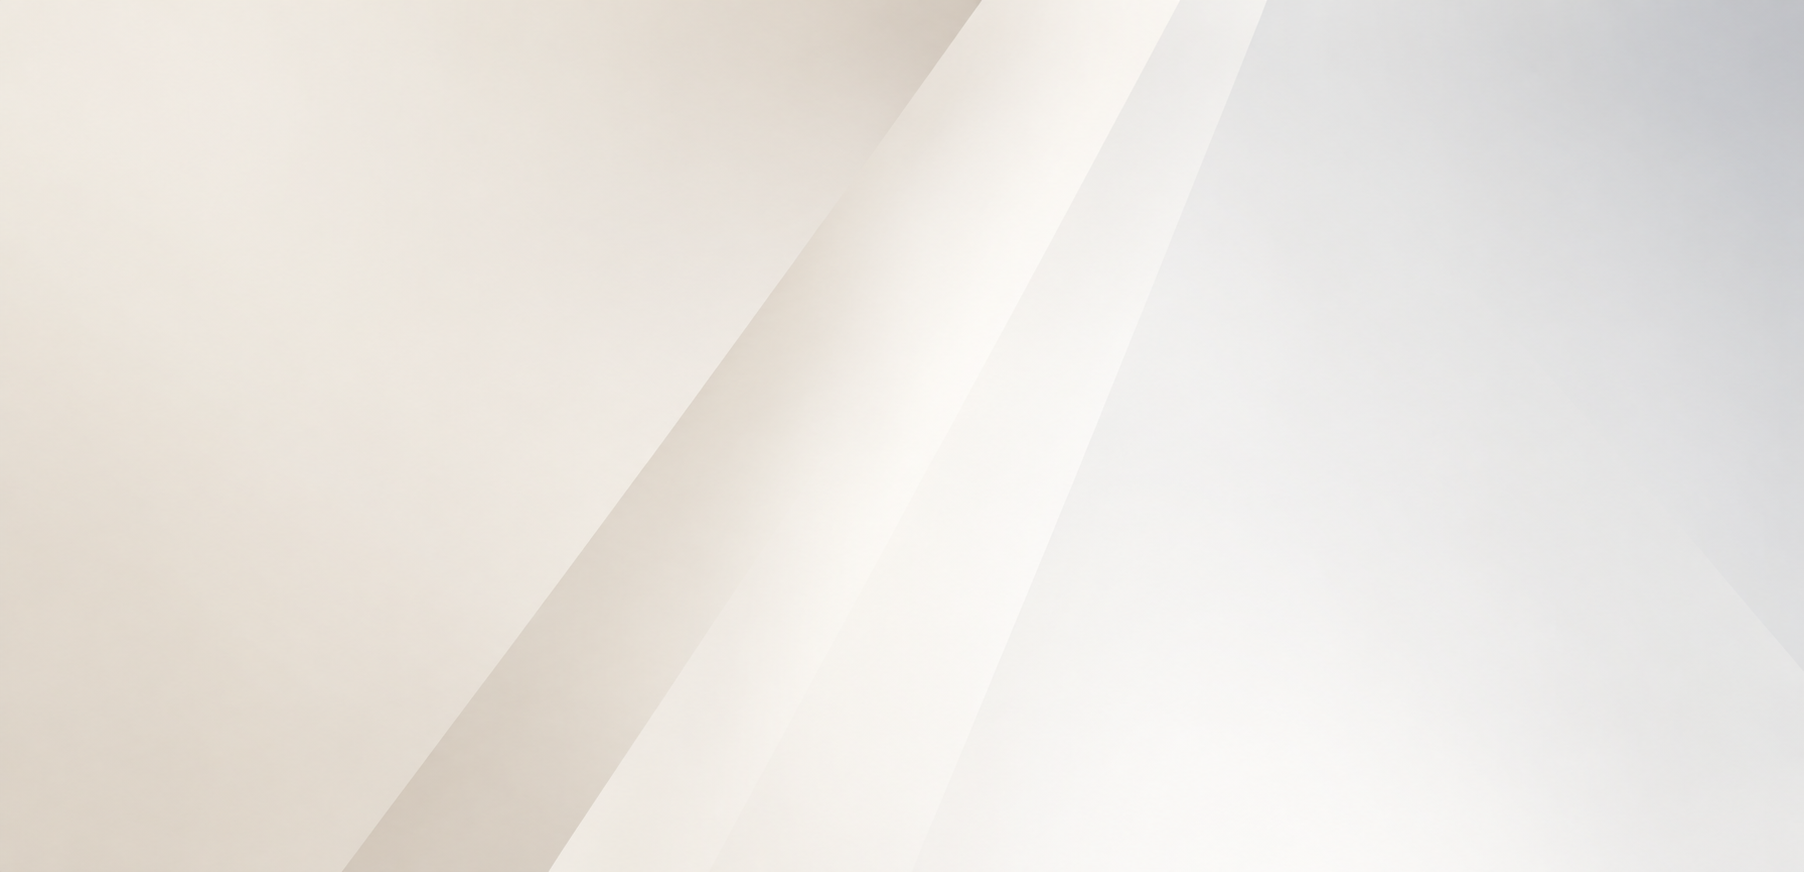
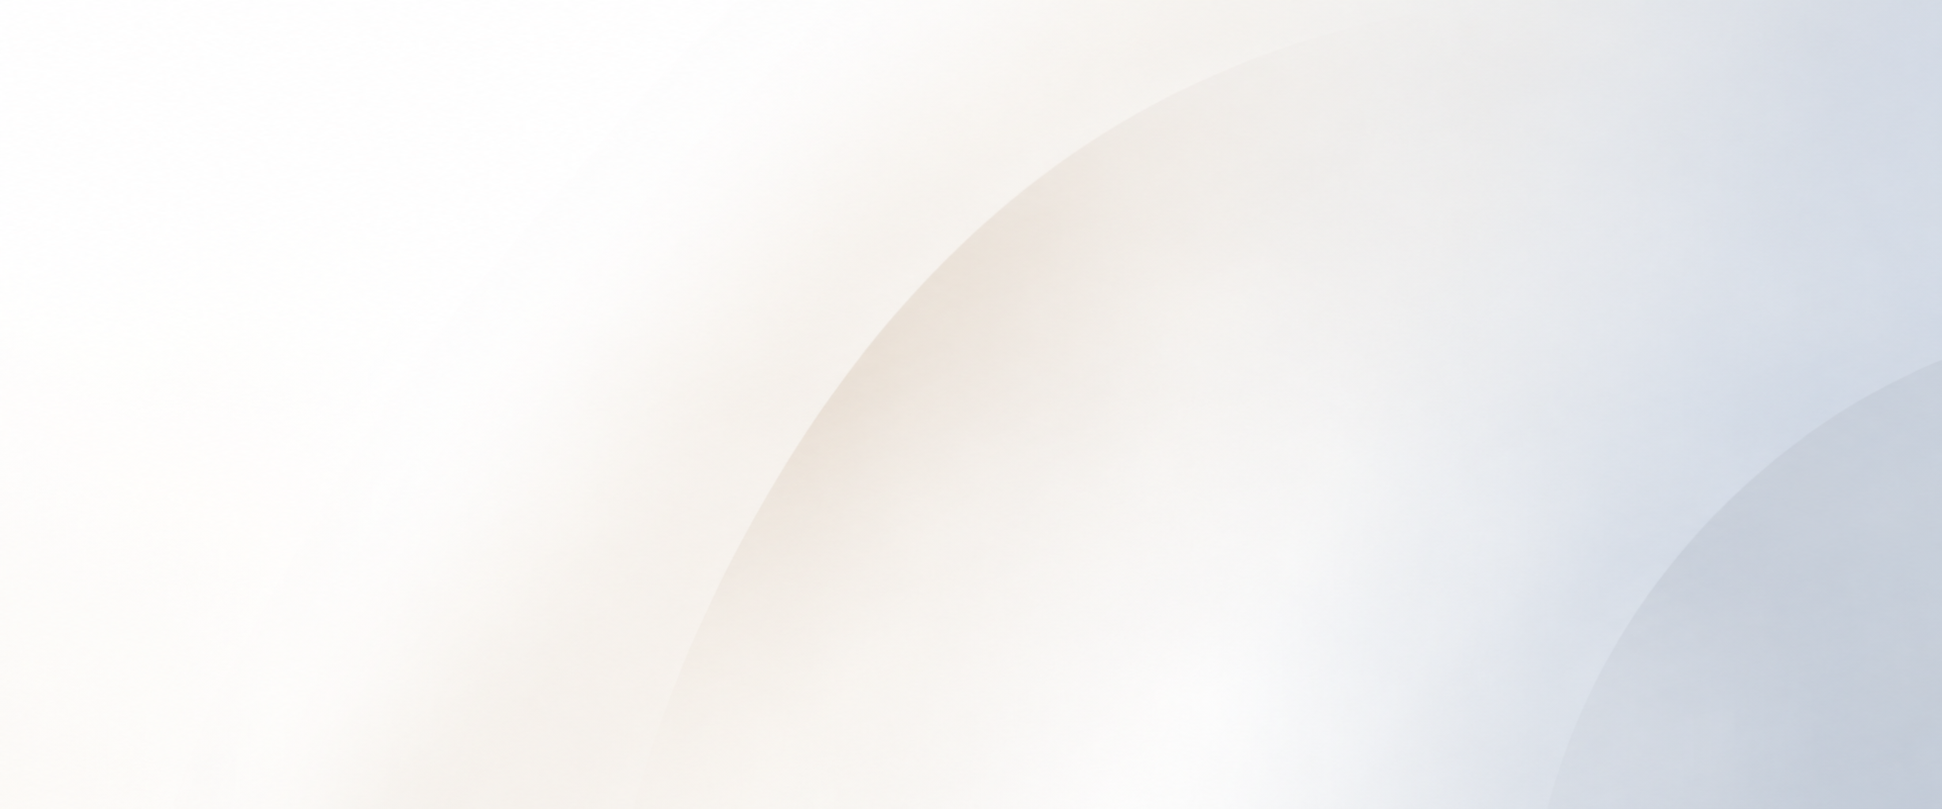
Replace hero background with uploaded rounded variant

diff --git a/index.html b/index.html
@@ -256,7 +256,7 @@ html body.site-light-page main.home section.home-hero{
   align-items:center!important;
   position:relative!important;
   isolation:isolate;
-  background:#f4f2ee url('assets/hero-background-20260907.png') center center / cover no-repeat!important;
+  background:#f4f2ee url('assets/hero-background-20260907.png?v=rounded') center center / cover no-repeat!important;
   color:#171715!important;
 }
 html body.site-light-page main.home section.home-hero .home-hero__content{
